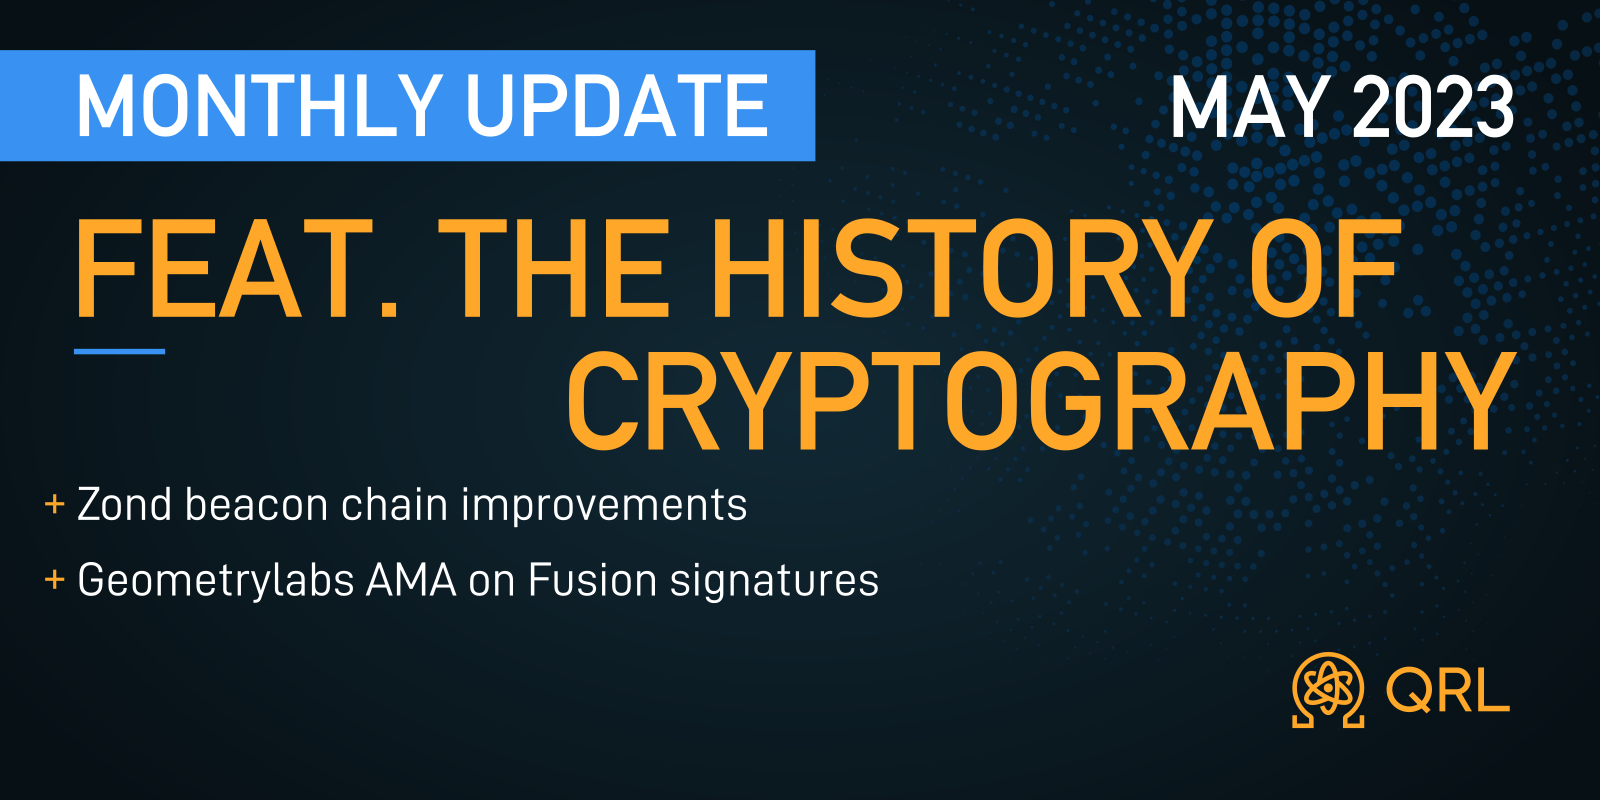
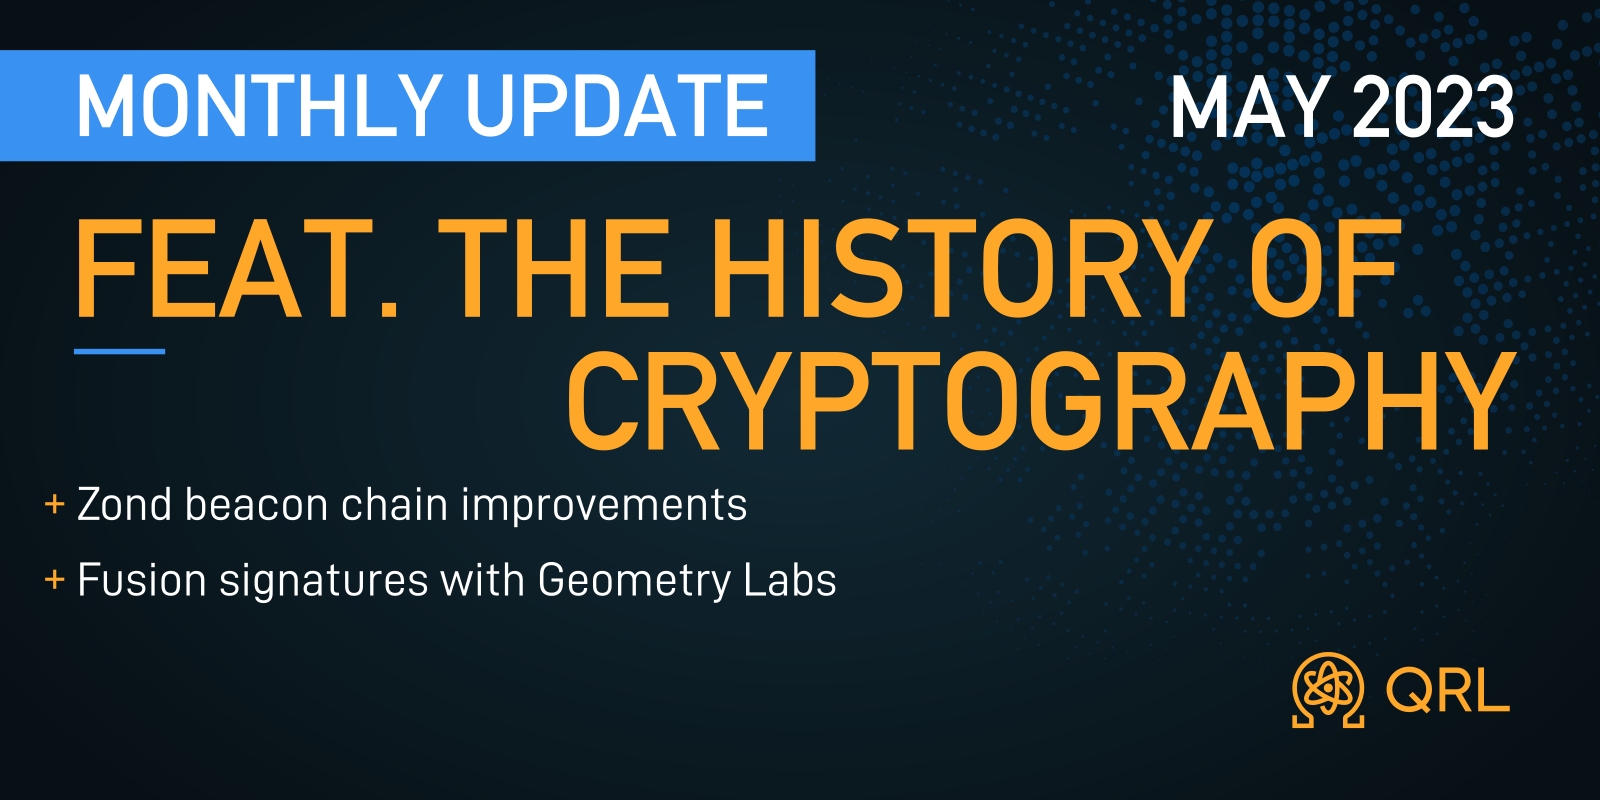
Content adjustments

Changed region(s): [[0.0312, 0.6875, 0.5625, 0.75]]

diff --git a/content/blog/2023/qrl-monthly-feat-the-history-of-cryptography-may-2023/index.md b/content/blog/2023/qrl-monthly-feat-the-history-of-cryptography-may-2023/index.md
@@ -36,17 +36,17 @@ Since its early days, cryptography has advanced greatly, with each new cypher im
 
 Be sure to [Subscribe](https://www.youtube.com/@QRLedger) and stay tuned for further details!
 
-### Geometry Labs AMA
+### Fusion Signatures with Geometry Labs
 
 {{< image "./images/h.fusion.png" >}}
 
-Geometry Labs has developed a highly aggregatable post-Quantum Fusion signatures, one-time signatures that aggregate to scale authentication in a Quantum secure manner, for the QRL ecosystem, with funding from the QRL Foundation. Geometry Labs joins hosts Michael Strike and Ryan Malinowski in the latest episode of The QRL Show to discuss Fusion signatures. 
+Geometry Labs has developed highly aggregatable post-Quantum Fusion signatures, one-time signatures that aggregate to scale authentication in a Quantum secure manner, for the QRL ecosystem, with funding from the QRL Foundation. Geometry Labs joins hosts Michael Strike and Ryan Malinowski in the latest episode of The QRL Show to discuss Fusion signatures. 
 
 The potential applications of Fusion signatures are not restricted to being used only within the QRL ecosystem; rather, they extend to general authentication. Websites and services will need to implement post-quantum authentication in order to protect the security of their customers' online financial transactions as pre-quantum cryptography becomes increasingly susceptible to attack.
 
 Because fusion signatures are able to aggregate signatures from a number of different sources, they are ideally suited for use in financial transactions, which typically involve multiple authentications taking place all at once. Amazon Key Management is another example, which uses thousands of queries every single day, which is why the aggregation of signatures is such a helpful feature for authentication.
 
-Check out our entertaining QRL Show below if you haven't already! Still have questions? Stay tuned for our upcoming Reddit AMA. Want to dig further? Check the associated [Fusion signature blog post](/blog/announcing-fusion-post-quantum-digital-signatures/). 
+Check out our entertaining QRL Show below if you haven't already! Still have questions? Stay tuned for our upcoming Fusion Signatures Reddit AMA. Want to dig further? Check the associated [Fusion signature blog post](/blog/announcing-fusion-post-quantum-digital-signatures/). 
 
 {{< youtube "TfTpGNoNnnU" >}}
 
